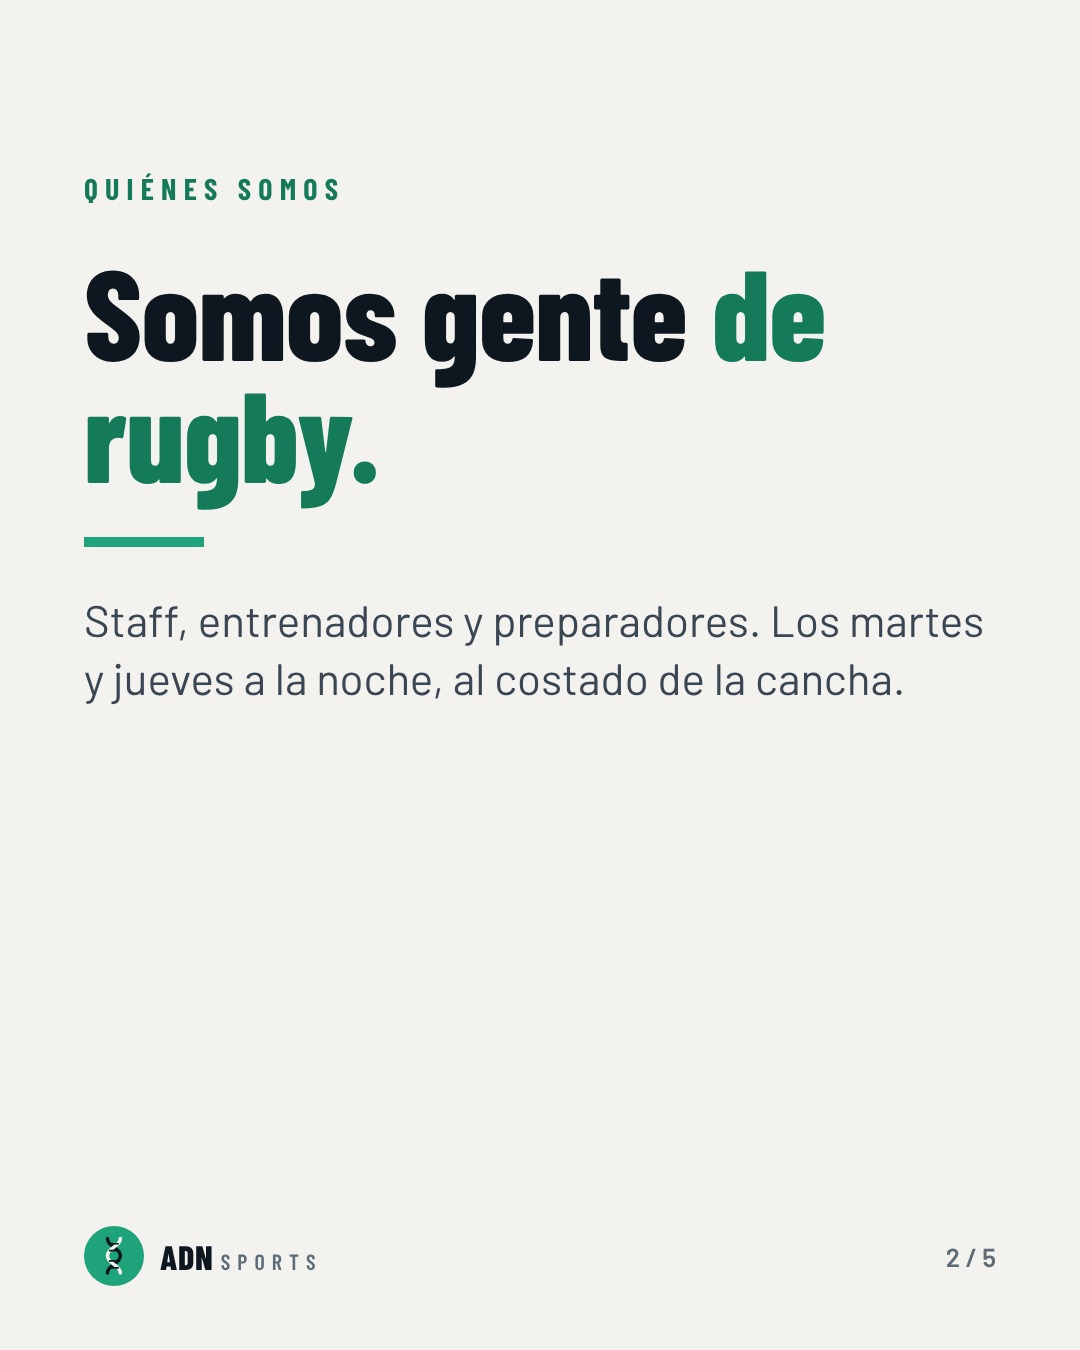
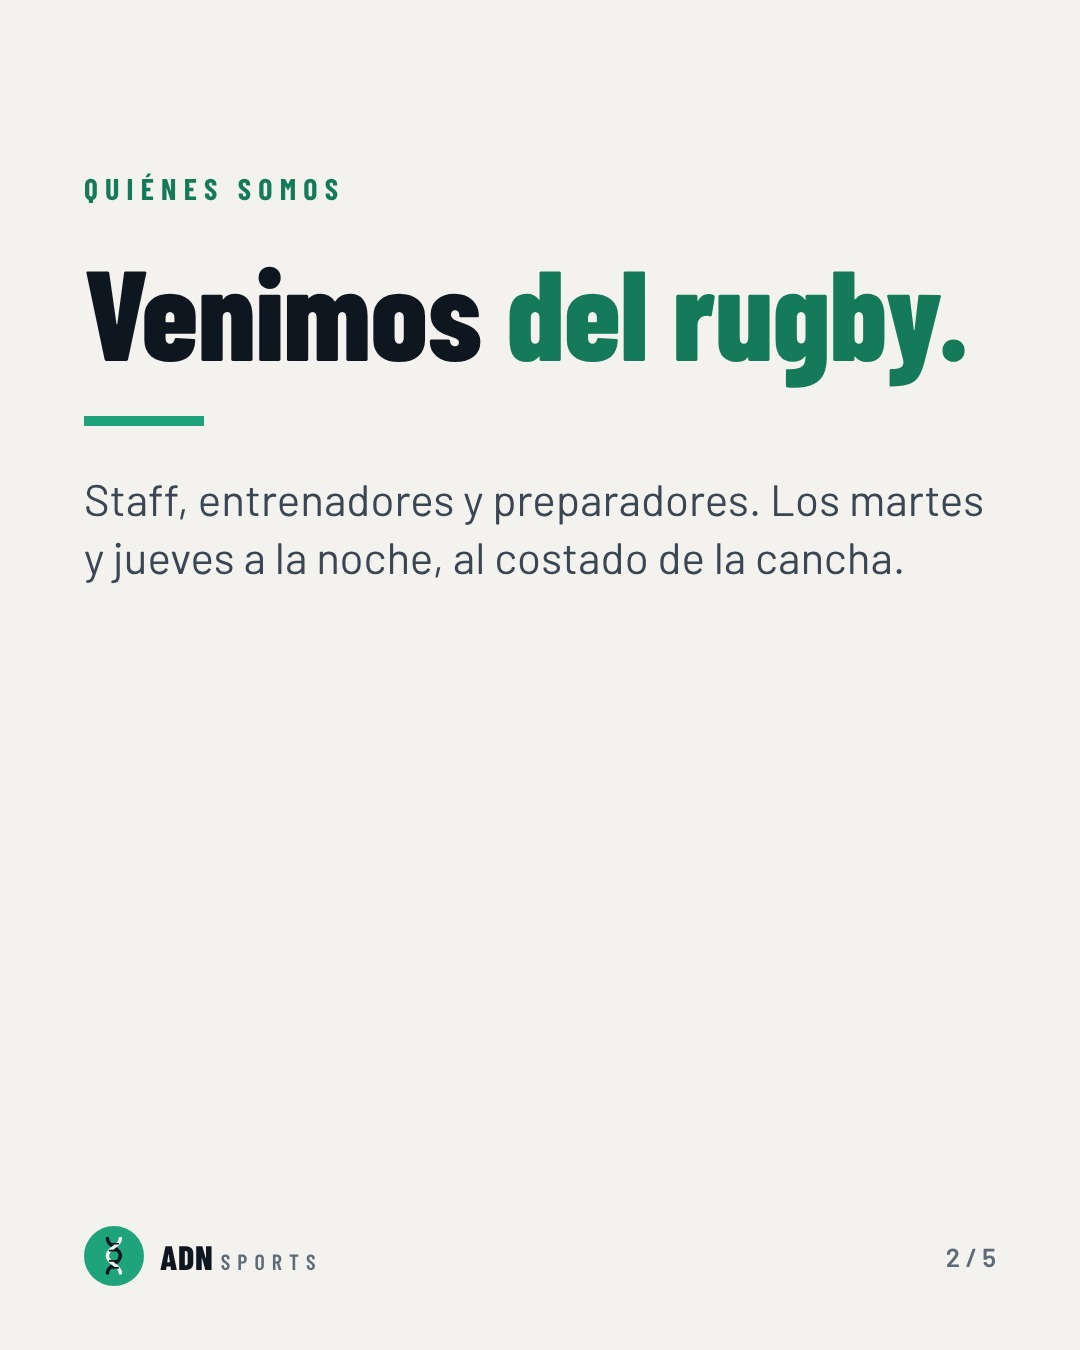
Placas de Instagram: mensaje multideporte
Claude-Session: https://claude.ai/code/session_01DY6iudhp7zRP8ZBDTtjtK8

Changed region(s): [[0.0611, 0.1867, 0.9167, 0.5289], [0.7944, 0.3422, 0.8861, 0.4044]]

diff --git a/adn-panel/scripts/render_verde.py b/adn-panel/scripts/render_verde.py
@@ -1,0 +1,204 @@
+"""Renderiza las placas de Instagram de ADN Sports (1080x1350, 4:5) a JPG."""
+import pathlib, sys
+from playwright.sync_api import sync_playwright
+
+F = pathlib.Path("/tmp/claude-0/-home-claude/210c9a9b-53fb-5a3f-9fec-4ea0bb0edbc8/scratchpad/gfonts/ofl")
+OUT = pathlib.Path(sys.argv[1])
+OUT.mkdir(parents=True, exist_ok=True)
+
+FONTS = f"""
+@font-face{{font-family:BC;font-weight:800;src:url('file://{F}/barlowcondensed/BarlowCondensed-ExtraBold.ttf')}}
+@font-face{{font-family:BC;font-weight:700;src:url('file://{F}/barlowcondensed/BarlowCondensed-Bold.ttf')}}
+@font-face{{font-family:BC;font-weight:600;src:url('file://{F}/barlowcondensed/BarlowCondensed-SemiBold.ttf')}}
+@font-face{{font-family:B;font-weight:400;src:url('file://{F}/barlow/Barlow-Regular.ttf')}}
+@font-face{{font-family:B;font-weight:500;src:url('file://{F}/barlow/Barlow-Medium.ttf')}}
+@font-face{{font-family:B;font-weight:600;src:url('file://{F}/barlow/Barlow-SemiBold.ttf')}}
+"""
+
+NOCHE, CREMA, GRIS = "#0E1620", "#F4F2EE", "#5E6B78"
+VERDE, VERDE_TXT, SUB, TARJETA = "#1FA37A", "#157A5A", "#3A4654", "#E7E3DC"
+NARANJA = VERDE_TXT  # acento de texto (verde oscuro para que se lea bien sobre crema)
+
+
+def helice(h, c1=NOCHE, c2=CREMA, peldanos=NOCHE, sw=12):
+    w = h * 0.5
+    lines = "".join(
+        f'<line x1="20" y1="{y}" x2="60" y2="{y}" stroke="{peldanos}" stroke-width="{sw/2}" stroke-linecap="round"/>'
+        for y in (24, 56, 104, 136)
+    )
+    return (
+        f'<svg width="{w}" height="{h}" viewBox="-6 -6 92 172">'
+        f'<path d="M10 0 C10 40 70 40 70 80 C70 120 10 120 10 160" fill="none" stroke="{c1}" stroke-width="{sw}" stroke-linecap="round"/>'
+        f'<path d="M70 0 C70 40 10 40 10 80 C10 120 70 120 70 160" fill="none" stroke="{c2}" stroke-width="{sw}" stroke-linecap="round"/>'
+        f"{lines}</svg>"
+    )
+
+
+def insignia(d, sw=13):
+    return (f'<div style="width:{d}px;height:{d}px;border-radius:50%;background:{VERDE};display:flex;'
+            f'align-items:center;justify-content:center;flex-shrink:0">{helice(d*0.66, sw=sw)}</div>')
+
+
+def marca(pagina=None, total=None):
+    pag = f'<div style="font:600 26px B;color:{GRIS}">{pagina} / {total}</div>' if pagina else "<div></div>"
+    return f"""
+    <div style="position:absolute;left:84px;right:84px;bottom:64px;display:flex;justify-content:space-between;align-items:center">
+      <div style="display:flex;align-items:center;gap:16px">{insignia(60, sw=16)}
+        <div style="font:800 34px BC;color:{NOCHE};letter-spacing:.02em">ADN <span style="font-weight:600;font-size:22px;letter-spacing:.32em;color:{GRIS}">SPORTS</span></div>
+      </div>{pag}
+    </div>"""
+
+
+def placa(cuerpo, pagina=None, total=None, fondo=CREMA):
+    return f"""<!doctype html><html><head><meta charset="utf-8"><style>{FONTS}
+    html,body{{margin:0}} *{{box-sizing:border-box}}
+    .p{{width:1080px;height:1350px;position:relative;overflow:hidden;background:{fondo};color:{NOCHE};font-family:B}}
+    .t{{font-family:BC;font-weight:800;line-height:.95;letter-spacing:-.005em;margin:0}}
+    .k{{font:700 30px BC;letter-spacing:.24em;color:{NARANJA};text-transform:uppercase}}
+    .s{{font:400 44px/1.32 B;color:{SUB};margin:0}}
+    .n{{color:{NARANJA}}}
+    </style></head><body><div class="p">{cuerpo}{marca(pagina, total)}</div></body></html>"""
+
+
+def texto(kicker, titulo, sub, pagina, total, tam=128):
+    return placa(f"""
+    <div style="position:absolute;left:84px;right:84px;top:170px;display:flex;flex-direction:column;gap:44px">
+      <div class="k">{kicker}</div>
+      <h1 class="t" style="font-size:{tam}px">{titulo}</h1>
+      <div style="width:120px;height:10px;background:{VERDE}"></div>
+      <p class="s">{sub}</p>
+    </div>""", pagina, total)
+
+
+POSTS = {}
+
+# ---------- 1 · Presentación ----------
+T = 5
+POSTS["01-presentacion"] = [
+    placa(f"""
+    <div style="position:absolute;inset:0;display:flex;flex-direction:column;align-items:center;justify-content:center;gap:90px;padding-bottom:110px">
+      <div style="display:flex;align-items:center;gap:56px">
+        {insignia(400, sw=12)}
+        <div style="display:flex;flex-direction:column;gap:22px">
+          <div class="t" style="font-size:210px;line-height:.8">ADN</div>
+          <div style="width:110px;height:12px;background:{VERDE}"></div>
+          <div style="font:600 60px BC;letter-spacing:.32em">SPORTS</div>
+        </div>
+      </div>
+      <div style="font:500 42px B;color:{SUB}">El Hub de tu club, para cualquier deporte.</div>
+    </div>""", 1, T),
+    texto("Quiénes somos", 'Venimos <span class="n">del rugby.</span>',
+          "Staff, entrenadores y preparadores. Los martes y jueves a la noche, al costado de la cancha.", 2, T),
+    texto("El problema", 'Nos cansamos de <span class="n">las planillas.</span>',
+          "Grupos de WhatsApp, un Excel que nadie actualiza y la lista de asistencia en papel. Todo en lugares distintos.", 3, T),
+    texto("La solución", 'Armamos <span class="n">el Hub.</span>',
+          "Plantel, wellness, partidos, GPS y video de los partidos en un solo lugar, desde el celular.", 4, T, 150),
+    placa(f"""
+    <div style="position:absolute;left:84px;right:84px;top:170px;display:flex;flex-direction:column;gap:44px">
+      <div class="k">Ahora</div>
+      <h1 class="t" style="font-size:128px">Lo puede usar <span class="n">tu club.</span></h1>
+      <div style="width:120px;height:10px;background:{VERDE}"></div>
+      <p class="s">Rugby, hockey, fútbol, básquet y más. Escribinos por mensaje directo y coordinamos una demo con los datos de tu club.</p>
+      <div style="margin-top:20px;align-self:flex-start;background:{VERDE};color:{NOCHE};font:800 52px BC;padding:22px 40px;border-radius:14px;letter-spacing:.02em">@adn.sporthub</div>
+    </div>""", 5, T),
+]
+
+# ---------- 4 · Wellness en 4 preguntas ----------
+T = 6
+def pregunta(n, nombre, pregunta_txt, mira):
+    return placa(f"""
+    <div style="position:absolute;left:84px;right:84px;top:150px;display:flex;flex-direction:column;gap:40px">
+      <div style="display:flex;align-items:baseline;gap:28px">
+        <div class="t n" style="font-size:220px">{n}</div>
+        <h1 class="t" style="font-size:128px">{nombre}</h1>
+      </div>
+      <p class="s" style="font-size:50px;color:{NOCHE};font-weight:500">{pregunta_txt}</p>
+      <div style="display:flex;gap:12px;margin:8px 0">
+        {''.join(f'<div style="flex:1;height:84px;border-radius:12px;background:{TARJETA};display:flex;align-items:center;justify-content:center;font:700 44px BC;color:{NOCHE}">{i}</div>' for i in range(1, 8))}
+      </div>
+      <p class="s"><b style="color:{NOCHE};font-weight:600">Qué mirar:</b> {mira}</p>
+    </div>""", n + 1, T)
+
+POSTS["04-wellness"] = [
+    placa(f"""
+    <div style="position:absolute;left:84px;right:84px;top:200px;display:flex;flex-direction:column;gap:48px">
+      <div class="k">Método</div>
+      <h1 class="t" style="font-size:170px">Wellness en <span class="n">4 preguntas.</span></h1>
+      <p class="s">Lo que todo staff debería saber de cada jugador antes de que pise la cancha.</p>
+    </div>""", 1, T),
+    pregunta(1, "Sueño", "¿Cómo dormiste anoche?", "dos o tres noches malas seguidas pesan más que una sola."),
+    pregunta(2, "Estrés", "¿Cuánto estrés tenés hoy, entre trabajo, estudio y casa?", "el deporte amateur se juega después de una jornada entera."),
+    pregunta(3, "Dolor muscular", "¿Cuánto dolor muscular sentís?", "si dura más de 48 horas después del partido, hay que hablar."),
+    pregunta(4, "Fatiga", "¿Qué tan cansado llegás al entrenamiento?", "comparalo siempre contra el promedio de ese mismo jugador."),
+    placa(f"""
+    <div style="position:absolute;left:84px;right:84px;top:200px;display:flex;flex-direction:column;gap:48px">
+      <div class="k">La clave</div>
+      <h1 class="t" style="font-size:150px">No hace falta un laboratorio. <span class="n">Hace falta constancia.</span></h1>
+      <p class="s">Las mismas 4 preguntas, cada día de entrenamiento. Guardá esta publicación para tu próxima pretemporada.</p>
+    </div>""", 6, T),
+]
+
+# ---------- 6 · ¿Dónde está el video? ----------
+POSTS["06-video"] = [
+    placa(f"""
+    <div style="position:absolute;left:84px;right:84px;top:170px;display:flex;flex-direction:column;gap:30px">
+      <div style="display:flex;align-items:center;gap:20px;padding-bottom:26px;border-bottom:2px solid #D6D1C8">
+        <div style="width:84px;height:84px;border-radius:50%;background:#1FA37A;color:#0E1620;display:flex;align-items:center;justify-content:center;font:800 36px BC">ST</div>
+        <div><div style="font:600 40px B">Staff Primera 🏉</div><div style="font:400 30px B;color:{GRIS}">23 participantes</div></div>
+      </div>
+      <div style="align-self:flex-start;max-width:820px;background:#FFFFFF;border:2px solid #E2DDD3;border-radius:8px 32px 32px 32px;padding:34px 40px">
+        <div style="font:600 30px B;color:{NARANJA};margin-bottom:10px">Entrenador de backs</div>
+        <div style="font:500 62px/1.2 B">¿Alguien tiene el video del sábado?</div>
+        <div style="font:400 28px B;color:{GRIS};text-align:right;margin-top:14px">Lunes 21:47</div>
+      </div>
+      <div style="align-self:flex-start;font:500 34px B;color:{GRIS};padding-left:8px">Visto por 23 · 0 respuestas</div>
+    </div>
+    <div style="position:absolute;left:84px;right:84px;top:880px">
+      <h1 class="t" style="font-size:96px">El mensaje más leído <span class="n">de cualquier grupo de staff.</span></h1>
+    </div>"""),
+]
+
+# ---------- 8 · Qué mirar del rival ----------
+T = 6
+def item(n, nombre, preguntas):
+    return placa(f"""
+    <div style="position:absolute;left:84px;right:84px;top:170px;display:flex;flex-direction:column;gap:44px">
+      <div class="k">Análisis del rival · {n} de 4</div>
+      <h1 class="t" style="font-size:180px">{nombre}</h1>
+      <div style="width:120px;height:10px;background:{VERDE}"></div>
+      {''.join(f'<p class="s" style="display:flex;gap:24px"><span class="n" style="font-weight:600">—</span><span>{q}</span></p>' for q in preguntas)}
+    </div>""", n + 1, T)
+
+POSTS["08-rival"] = [
+    placa(f"""
+    <div style="position:absolute;left:84px;right:84px;top:200px;display:flex;flex-direction:column;gap:48px">
+      <div class="k">Rugby y método</div>
+      <h1 class="t" style="font-size:160px">Qué mirar del rival <span class="n">antes del sábado.</span></h1>
+      <p class="s">Tener el video sirve si sabés qué buscar. Cuatro cosas que miramos de cada rival.</p>
+    </div>""", 1, T),
+    item(1, "Scrum", ["¿Empuja recto o gira?", "¿Cuántas veces sale por octavo y por dónde?"]),
+    item(2, "Line", ["¿A qué zona tira con 5, 6 o 7 hombres?", "¿Arma maul cerca del ingoal?"]),
+    item(3, "Salidas", ["¿Patea largo, corto o juega desde su campo?", "¿Quién persigue y quién recibe?"]),
+    item(4, "Defensa en las 22", ["¿Sube rápido o se desliza?", "¿Dónde quedan los huecos cuando se cansa?"]),
+    placa(f"""
+    <div style="position:absolute;left:84px;right:84px;top:200px;display:flex;flex-direction:column;gap:48px">
+      <div class="k">Tu turno</div>
+      <h1 class="t" style="font-size:170px">¿Qué <span class="n">agregarías vos?</span></h1>
+      <p class="s">Dejalo en los comentarios. Las mejores ideas van a la próxima publicación.</p>
+    </div>""", 6, T),
+]
+
+with sync_playwright() as p:
+    b = p.chromium.launch()
+    pg = b.new_page(viewport={"width": 1080, "height": 1350}, device_scale_factor=1)
+    for nombre, placas in POSTS.items():
+        for i, html in enumerate(placas, 1):
+            f = OUT / f"_tmp.html"
+            f.write_text(html)
+            pg.goto(f"file://{f}")
+            pg.evaluate("document.fonts.ready")
+            pg.wait_for_timeout(150)
+            pg.screenshot(path=str(OUT / f"{nombre}-{i}.jpg"), type="jpeg", quality=92)
+        print(nombre, len(placas))
+    (OUT / "_tmp.html").unlink()
+    b.close()
